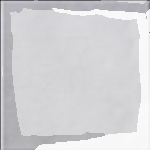
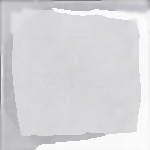
Graphics & fixes for movement

diff --git a/index.html b/index.html
@@ -15,17 +15,17 @@
 
         function preload () {
 
-            game.load.image('logo', 'phaser.png');
-            game.load.image('tile', 'ceramic.jpg');
+            game.load.image('logo', 'background.jpg');
+            game.load.image('tile', 'ceramic.png');
 
         }
-        var tileGroup, tiles = [], swiping, canMove, direction, speed = 100, stopped = false;
+        var tileGroup, tiles = [], swiping, canMove, direction, speed = 100, stopped = true;
         function create () {
          //   game.physics.startSystem(Phaser.Physics.ARCADE);
             var logo = game.add.sprite(game.world.centerX, game.world.centerY, 'logo');
             tileGroup = game.add.physicsGroup(Phaser.Physics.Arcade);
             for(var i=0; i<4; i++){
-                var p = pospx(1, i+1);
+                var p = pospx(i+1, i+1);
                 var tile = tileGroup.create(p.x, p.y, 'tile');
                 tiles[i] = tile;
                 game.physics.arcade.enable(tile);
@@ -54,9 +54,10 @@
           return {x:Math.ceil(x/175), y:Math.ceil(y/175)};
         }
         function update() {
+          stopped =true;
           for(var i=0; i<tiles.length; i++){
             var tile = tiles[i];
-              if(!stopped && tile.body.velocity.x === 0 && tile.body.velocity.y === 0) stopped = true;
+              if(tile.body.velocity.x !== 0 || tile.body.velocity.y !== 0) stopped = false;
 
               tile.texts.text = ""+tile.points;
               if(tile.x < 95) { tile.x = 95; tile.body.velocity.setTo(0,0); }
@@ -194,8 +195,13 @@
 
 
         a.position = pospx(p.x, p.y)
+
+        var i = tiles.indexOf(b);
+        tiles.splice(i, 1);
+
         b.texts.kill();
         b.kill();
+
       }
     }
   };

diff --git a/README.md b/README.md
@@ -9,3 +9,4 @@ PUASE
 16:00 Swiping & moving (copied from http://www.html5gamedevs.com/topic/5449-directional-swipe/)
 16:20 Basic mechanics
 17:20 Positions cool
+17:45 Graphics & fixes
